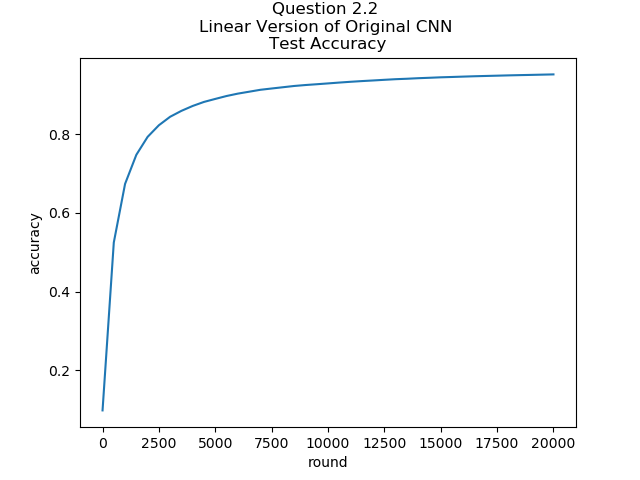
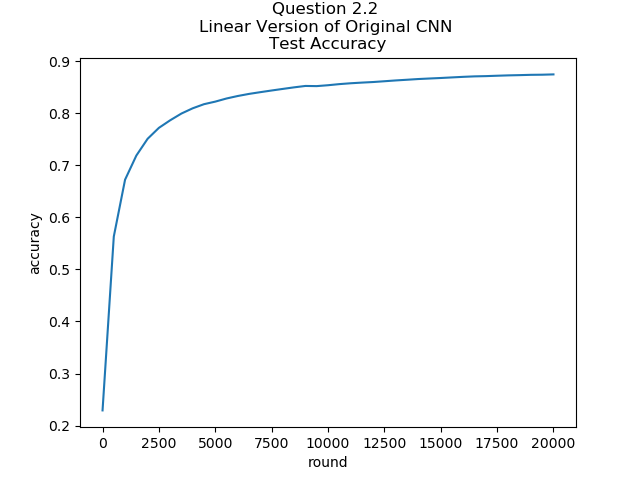
Added and changed some plots, minor changes to code, and completed answers

diff --git a/ConvNN.py b/ConvNN.py
@@ -8,15 +8,15 @@ class CNNModel(tf.keras.Model):
 
     def __init__(self, conv1out=32, conv1window=5, conv1dropout=0.0, maxpool1dropout=0.0,
                  conv2out=64, conv2window=5, conv2dropout=0.0, maxpool2dropout=0.0,
-                 dense1out=1024, dense1dropout=0.0, hidden_activation: object = 'relu'):
+                 dense1out=1024, dense1dropout=0.0, hidden_activation: object = 'relu', pool_size=2):
         super(CNNModel, self).__init__()
         self.conv1 = tf.keras.layers.Conv2D(conv1out, conv1window, activation=hidden_activation)
         self.dropout1 = tf.keras.layers.Dropout(conv1dropout)
-        self.maxpool1 = tf.keras.layers.MaxPool2D(2)
+        self.maxpool1 = tf.keras.layers.MaxPool2D(pool_size) if pool_size > 1 else None
         self.dropout2 = tf.keras.layers.Dropout(maxpool1dropout)
         self.conv2 = tf.keras.layers.Conv2D(conv2out, conv2window, activation=hidden_activation)
         self.dropout3 = tf.keras.layers.Dropout(conv2dropout)
-        self.maxpool2 = tf.keras.layers.MaxPool2D(2)
+        self.maxpool2 = tf.keras.layers.MaxPool2D(pool_size) if pool_size > 1 else None
         self.dropout4 = tf.keras.layers.Dropout(maxpool2dropout)
         self.flatten = tf.keras.layers.Flatten()
         self.d1 = tf.keras.layers.Dense(dense1out, activation=hidden_activation)
@@ -27,13 +27,13 @@ class CNNModel(tf.keras.Model):
         res = self.conv1(x)
         if training:
             res = self.dropout1(res)
-        res = self.maxpool1(res)
+        res = self.maxpool1(res) if self.maxpool1 is not None else res
         if training:
             res = self.dropout2(res)
         res = self.conv2(res)
         if training:
             res = self.dropout3(res)
-        res = self.maxpool2(res)
+        res = self.maxpool2(res) if self.maxpool1 is not None else res
         if training:
             res = self.dropout4(res)
         res = self.flatten(res)
@@ -149,7 +149,7 @@ def q_1_2():
 
 
 def q_2_2():
-    model = CNNModel(hidden_activation=None)
+    model = CNNModel(hidden_activation=None, pool_size=1)
     x, train_acc, test_acc, _ = train_model(model)
     plot(x, train_acc, 'Question 2.2 \nLinear Version of Original CNN \nTraining Accuracy', 'round', 'accuracy')
     plot(x, test_acc, 'Question 2.2 \nLinear Version of Original CNN \nTest Accuracy', 'round', 'accuracy')

diff --git a/main.py b/main.py
@@ -5,10 +5,10 @@ import matplotlib.pyplot as plt
 
 def main():
     # q_1_2()
-    # q_2_2()
+    q_2_2()
     # q_3_1()
     # q_3_2()
-    q_4_1()
+    # q_4_1()
     # q_5_1()
     # q_5_2()
     # plt.show()
